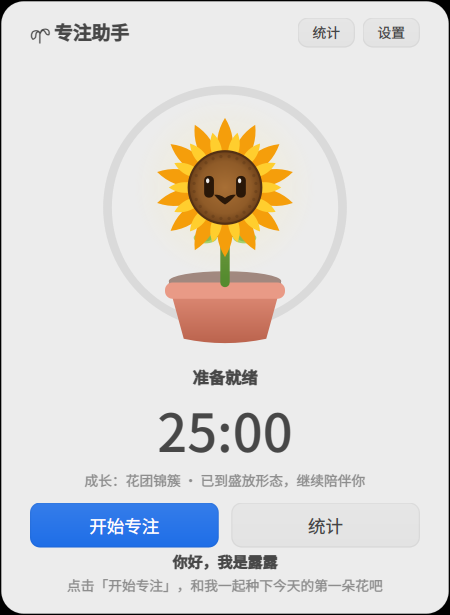
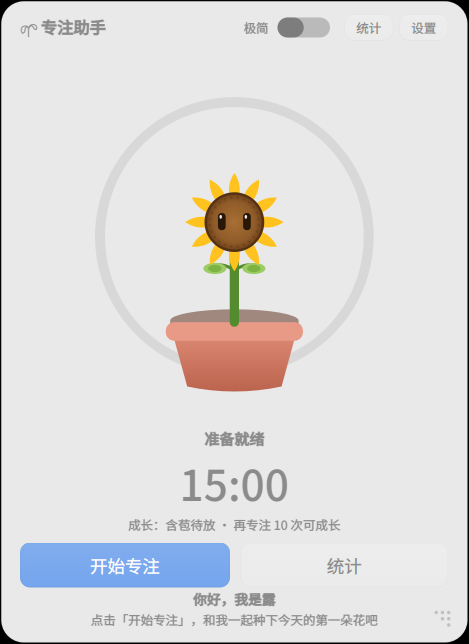
feat: 向日葵皮肤移除笑嘴——表情仅保留竖长圆角眼与高光，各情绪统一无嘴脸；同步 README/注释与演示截图

diff --git a/src/petwidget.cpp b/src/petwidget.cpp
@@ -338,7 +338,7 @@ void PetWidget::drawPlant(QPainter &p, QPointF &headPos, qreal &headR)
     p.save();
     p.translate(0, bob);
 
-    // ---------- 向日葵皮肤（PVZ 风格：大花盘 + 双层花瓣 + 招牌表情） ----------
+    // ---------- 向日葵皮肤（PVZ 风格：大花盘 + 双层花瓣 + 圆角大眼） ----------
     if (m_skin == Skin::Sunflower) {
         drawSunflowerPlant(p, headPos, headR);
         p.restore();
@@ -572,7 +572,7 @@ void PetWidget::drawSunflowerBloom(QPainter &p, const QPointF &c, qreal R, int s
     }
 }
 
-// PVZ 向日葵招牌表情：竖长圆角眼 + 高光 + 大大张开的笑
+// PVZ 向日葵表情：竖长圆角眼 + 高光（2026-09-08 按需求移除嘴部）
 void PetWidget::drawSunflowerFace(QPainter &p, const QPointF &c, qreal r)
 {
     const QColor ink("#291708");
@@ -619,22 +619,7 @@ void PetWidget::drawSunflowerFace(QPainter &p, const QPointF &c, qreal r)
         p.drawLine(QPointF(ecR.x() - ew, ecR.y()), QPointF(ecR.x() + ew, ecR.y()));
     };
 
-    // 张开的笑（开口笑，深色口腔）
-    auto drawBigSmile = [&](qreal wf, qreal df) {
-        QPainterPath mo;
-        const qreal mw = r * wf;
-        const qreal my = c.y() + r * 0.20;
-        mo.moveTo(c.x() - mw, my);
-        mo.quadTo(c.x() - mw * 0.45, my + r * df, c.x(), my + r * (df + 0.07));
-        mo.quadTo(c.x() + mw * 0.45, my + r * df, c.x() + mw, my);
-        // 上唇（中间略下垂的弧线）
-        mo.quadTo(c.x() + mw * 0.5, my - r * 0.02, c.x(), my + r * 0.09);
-        mo.quadTo(c.x() - mw * 0.5, my - r * 0.02, c.x() - mw, my);
-        mo.closeSubpath();
-        p.setPen(Qt::NoPen);
-        p.setBrush(ink);
-        p.drawPath(mo);
-    };
+    // 嘴部已按需求移除（2026-09-08）：向日葵表情仅保留眼睛/腮红
 
     bool blush = false;
     switch (m_mood) {
@@ -648,40 +633,27 @@ void PetWidget::drawSunflowerFace(QPainter &p, const QPointF &c, qreal r)
         } else {
             drawOpenEyes();
         }
-        drawBigSmile(0.30, 0.20);
         break;
     }
-    case Focused: {          // 专注：闭眼努力 + 小“o”嘴
+    case Focused: {          // 专注：闭眼努力
         drawClosedHappy(0.8);
-        p.setBrush(ink);
-        p.setPen(Qt::NoPen);
-        p.drawEllipse(QPointF(c.x(), c.y() + r * 0.36), r * 0.075, r * 0.09);
         blush = true;
         break;
     }
-    case Happy: {            // 开心：∩∩ + 大笑
+    case Happy: {            // 开心：∩∩ 眯眯眼
         drawClosedHappy(1.0);
-        drawBigSmile(0.36, 0.26);
         blush = true;
         break;
     }
-    case Tired: {            // 疲惫：耷拉眼 + 小弧线嘴
+    case Tired: {            // 疲惫：耷拉眼
         drawDroopy();
-        QPen pen(ink, qMax(2.0, r * 0.05), Qt::SolidLine, Qt::RoundCap);
-        p.setPen(pen);
-        p.setBrush(Qt::NoBrush);
-        p.drawArc(QRectF(c.x() - r * 0.18, c.y() + r * 0.22, r * 0.36, r * 0.2), 200 * 16, -130 * 16);
         break;
     }
-    case Sleepy:             // 睡觉：线眼 + 小圆嘴
+    case Sleepy:             // 睡觉：线眼
         drawSleepLines();
-        p.setPen(Qt::NoPen);
-        p.setBrush(ink);
-        p.drawEllipse(QPointF(c.x(), c.y() + r * 0.34), r * 0.07, r * 0.06);
         break;
-    case Celebrate:          // 雀跃：∩∩ + 超大张嘴
+    case Celebrate:          // 雀跃：∩∩ 眯眯眼
         drawClosedHappy(1.15);
-        drawBigSmile(0.40, 0.30);
         blush = true;
         break;
     }

diff --git a/README.md b/README.md
@@ -40,7 +40,7 @@
 | 劳逸节奏 | 短休息 5–15 分钟，长休息每 N 次触发（可配），自动进入休息可开关 |
 | 养成系统 | 4 形态成长（按累计专注分钟），界面显示距下一形态还需几次；露实时长大 |
 | 情绪动画 | 呼吸、眨眼、认真脸、困倦 zZz、撒花庆祝、成长演出 |
-| 皮肤 | 经典粉花·露 / 阳光向日葵（PVZ 风格双层花瓣+招牌表情），**右键露**或**托盘→换肤**即点即换并本地保存，设置中也可切换 |
+| 皮肤 | 经典粉花·露 / 阳光向日葵（PVZ 风格双层花瓣+圆角大眼），**右键露**或**托盘→换肤**即点即换并本地保存，设置中也可切换 |
 | 护眼联动 | 专注联动护眼色温，结束自动还原（默认关闭，设置中开启；退出/崩溃自动清理） |
 | 桌面常驻 | 勾选后窗口以置顶方式常驻桌面，「显示桌面」也不会被隐藏（X11 下通过 override-redirect 实现，托盘一键开关） |
 | 自由缩放 | 无边框手动缩放：拖拽任意边缘/四角放大缩小（可大可小），露等比缩放不拉伸变形，窄窗口下顶栏文字自动隐藏，尺寸自动记忆 |
